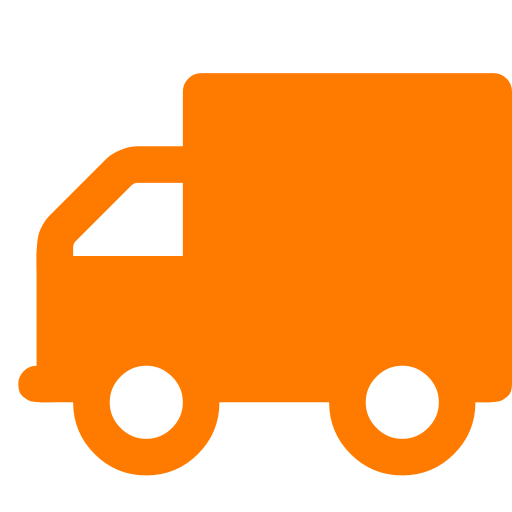
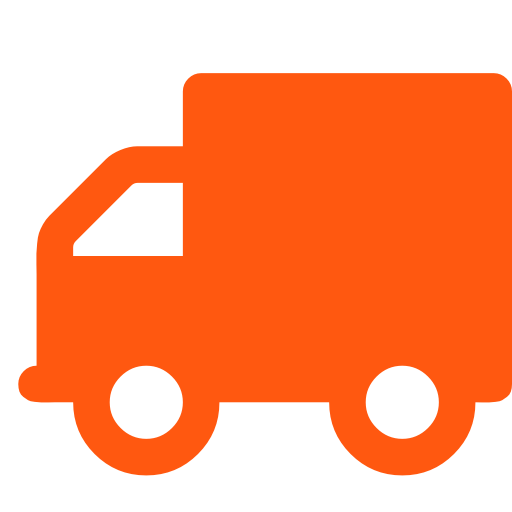
'continuacao da estilizacao da paigina'

diff --git a/index.html b/index.html
@@ -10,7 +10,7 @@
 </head>
 <body>
    <nav class="cabecalho">
-        <h1 class="cabecalho__titulo"><i class="bi bi-truck"></i>FASTER</h1>
+        <h1 class="cabecalho__titulo"><img class="bi" src="imagens/icone-orange-camion.png" alt="icone caminhao laranja">FASTER</h1>
         <div class="cabecalho__meio mx-auto p-2">    
             <ul class="nav justify-content-center">
                 <li class="nav-item">
@@ -44,40 +44,43 @@
         </div>
     </nav>
     <main>
-        <section>
-            <h3>Safe & Faster</h3>
-            <h1>Logistics Services</h1>
-            <form class="row row-cols-lg-auto g-3 align-items-center">
-                <div class="col-12">
-                  <label class="visually-hidden" for="inlineFormInputGroupUsername">Track id</label>
+        <section class="hero">
+            <h3 class="hero__titulo3">Safe & Faster</h3>
+            <h1 class="hero__titulo1">Logistics Services</h1>
+            <form class="hero__form row row-cols-lg-auto g-0 align-items-center">
+                <div class="col-13">
+                  <label class="visually-hidden" for="trackid">Track id</label>
                   <div class="input-group">
-                    <input type="text" class="form-control" id="inlineFormInputGroupUsername" placeholder="Track id">
+                    <input type="text" class="form-control" id="trackid" placeholder="Track id">
                   </div>
                 </div>  
                 <div class="col-12">
-                  <button type="submit" class="btn btn-primary">Track & Trace</button>
+                  <button type="submit" class="botao btn-label">Track & Trace</button>
                 </div>
               </form>
         </section>
-        <section>
-            <div class="card">
+        <section class="form">
+          <div class="form__container">
+            <div class="form__card">
                 <div class="card-body">
                   <h5>GET A QUOTE</h5>
                   <h3>Request A Free Quote</h3>
                   <p>
                     Lorem ipsum, dolor sit amet consectetur adipisicing elit. Nobis necessitatibus eum, maiores ex sit quam consequatur placeat, eveniet ullam ipsa repellendus est alias adipisci delectus saepe facilis at totam minima.
                   </p>
-                  <div class="card">
-                    <h3>225</h3>
-                    <h5>Skilled Experts</h5>
-                  </div>
-                  <div class="card">
-                    <h3>1050</h3>
-                    <h5>Happy Clients</h5>
-                  </div>
-                  <div class="card">
-                    <h3>2500</h3>
-                    <h5>Complete Projects</h5>
+                  <div class="cards">
+                    <div class="card">
+                      <h3>225</h3>
+                      <h5>Skilled Experts</h5>
+                    </div>
+                    <div class="card">
+                      <h3>1050</h3>
+                      <h5>Happy Clients</h5>
+                    </div>
+                    <div class="card">
+                      <h3>2500</h3>
+                      <h5>Complete Projects</h5>
+                    </div>
                   </div>
                 </div>
             </div>
@@ -96,6 +99,7 @@
                   <button type="submit" class="btn btn-primary">Get a Quote</button>
                 </div>
               </form>
+            </div>
         </section>
         <section>
             <h5>PRICING PLAN</h5>

diff --git a/style.css b/style.css
@@ -5,6 +5,7 @@
     padding: 0%;
     margin: 0%;
     text-decoration: none;
+    box-sizing: border-box;
 }
 
 :root {
@@ -19,20 +20,27 @@
     --font-primaria: 'Poppins', sans-serif;
 }
 
-.topo{
-    background-color: var(--cor-secundaria);
+.body{
+    background-color: var(--cor-branco);
 }
 
 .cabecalho {
     display: flex;
-    background-color: var(--cor-secundaria);
+    background-color: var(--cor-branco);
     justify-content: space-between;
-    align-items: center;
+    align-items:center;
     padding: 0% 3%;
 }
 
 .bi {
     margin-right: 10px;
+    width: 7%;
+    height: 7%;
+    color: var(--cor-primaria);
+    -moz-transform: scaleX(-1);
+    -o-transform: scaleX(-1);
+    -webkit-transform: scaleX(-1);
+    transform: scaleX(-1);
 }
 
 .cabecalho__titulo {
@@ -52,6 +60,7 @@
     background-color: var(--cor-primaria);
     color: var(--cor-branco);
     height: auto;
+    transition: 1s;
 }
 
 .botao {
@@ -61,4 +70,66 @@
     font-family: var(--font-primaria);
     padding: 5px 15px;
     font-size: 0.8rem;
+}
+
+.hero {
+    background-image: url(imagens/header.jpg);
+    background-size: cover;
+    height: 21.5rem;
+    width: 100%;
+    background-repeat: no-repeat;
+    display: flex;
+    flex-direction: column;
+}
+
+.hero__titulo3 {
+    color: var(--cor-primaria);
+    font-family: var(--font-primaria);
+    font-size: 1.8rem;
+    font-weight: 800;
+    align-self: center;
+    margin-top: 5%;
+}
+
+.hero__titulo1 {
+    color: var(--cor-branco);
+    font-family: var(--font-primaria);
+    font-size: 3rem;
+    font-weight: 800;
+    align-self: center;
+    margin-top: 1%;
+}
+
+.hero .hero__form {
+    align-self: center;
+    margin-top: 2%;
+}
+
+.btn-label {
+    padding: 8px 15px ;
+}
+
+.form {
+    display: flex;
+    background-color: var(--cor-secundaria);
+    margin-top: 2%;
+}
+
+.form__container {
+    display: flex;
+    width: 60%;
+    margin: auto;
+}
+
+.form__card .card-body, .form__card .card-body .card {
+    background-color: var(--cor-secundaria);
+}
+
+.cards {
+    display: flex;
+}
+
+.cards .card {
+    border: none;
+    justify-content:space-between ;
 }
